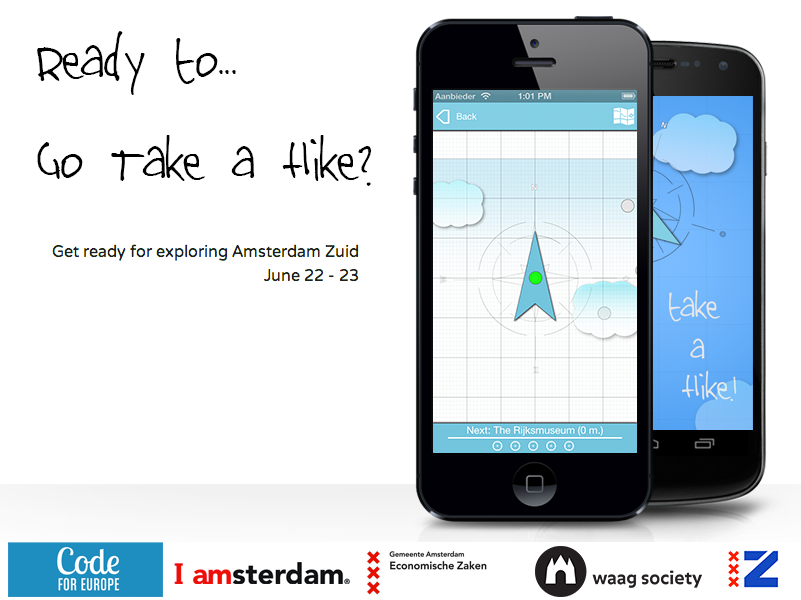
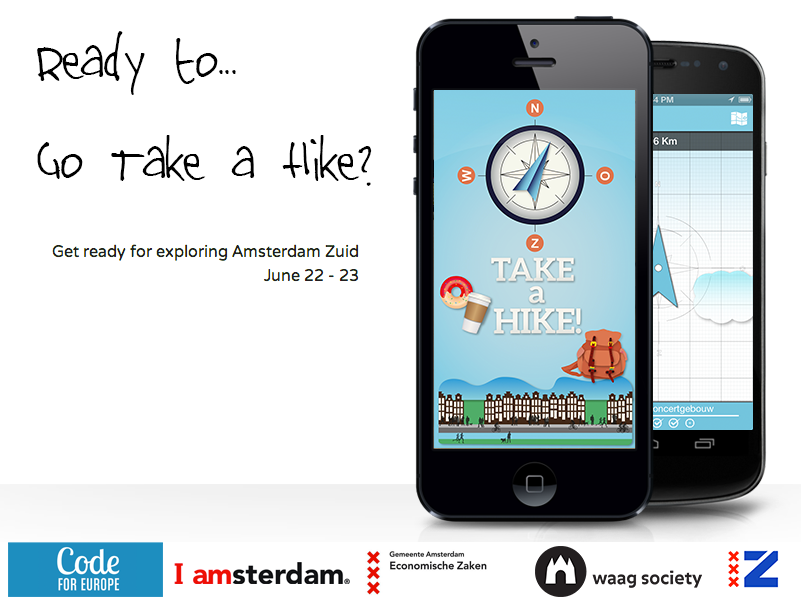
Updated launch placeholder

Changed region(s): [[0.5306, 0.15, 0.9675, 0.78]]

diff --git a/public/index.html b/public/index.html
@@ -39,7 +39,9 @@
   <img src="launch-placeholder.png">
   <br>
   <br>
+   <h3>
   <a href="http://tflig.ht/18Uqo4j">Help us beta test. Sign up Now!</a>
+   </h3>
 </div>
 </body>
 </html>
